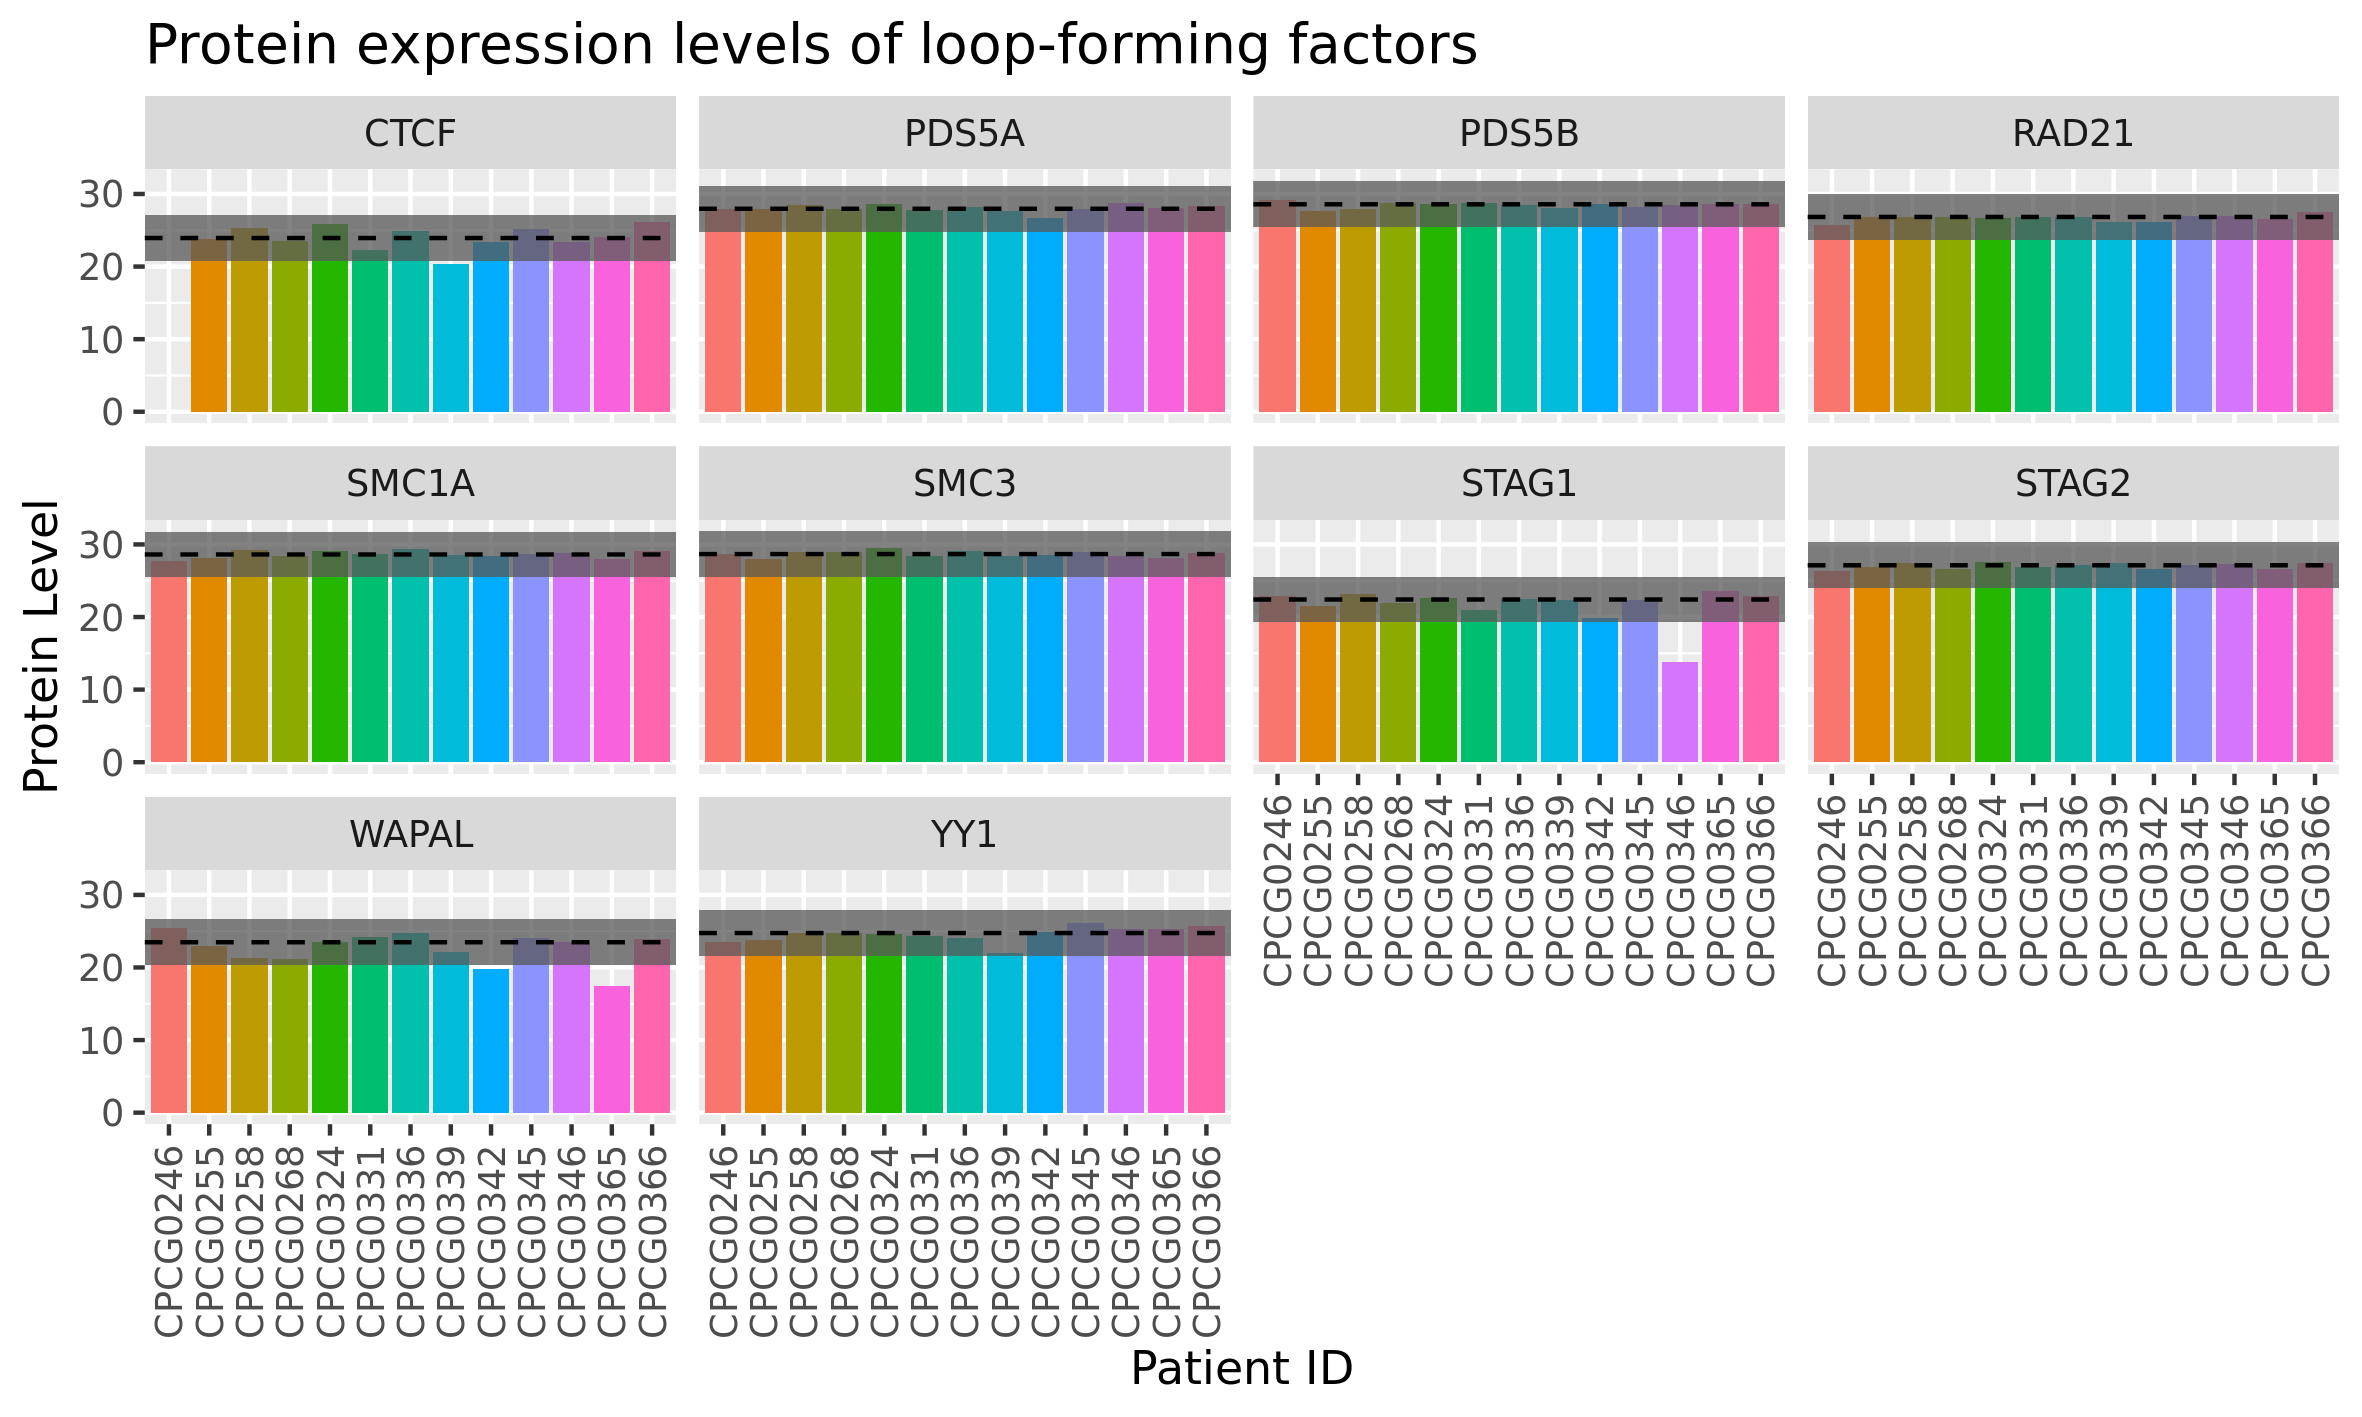
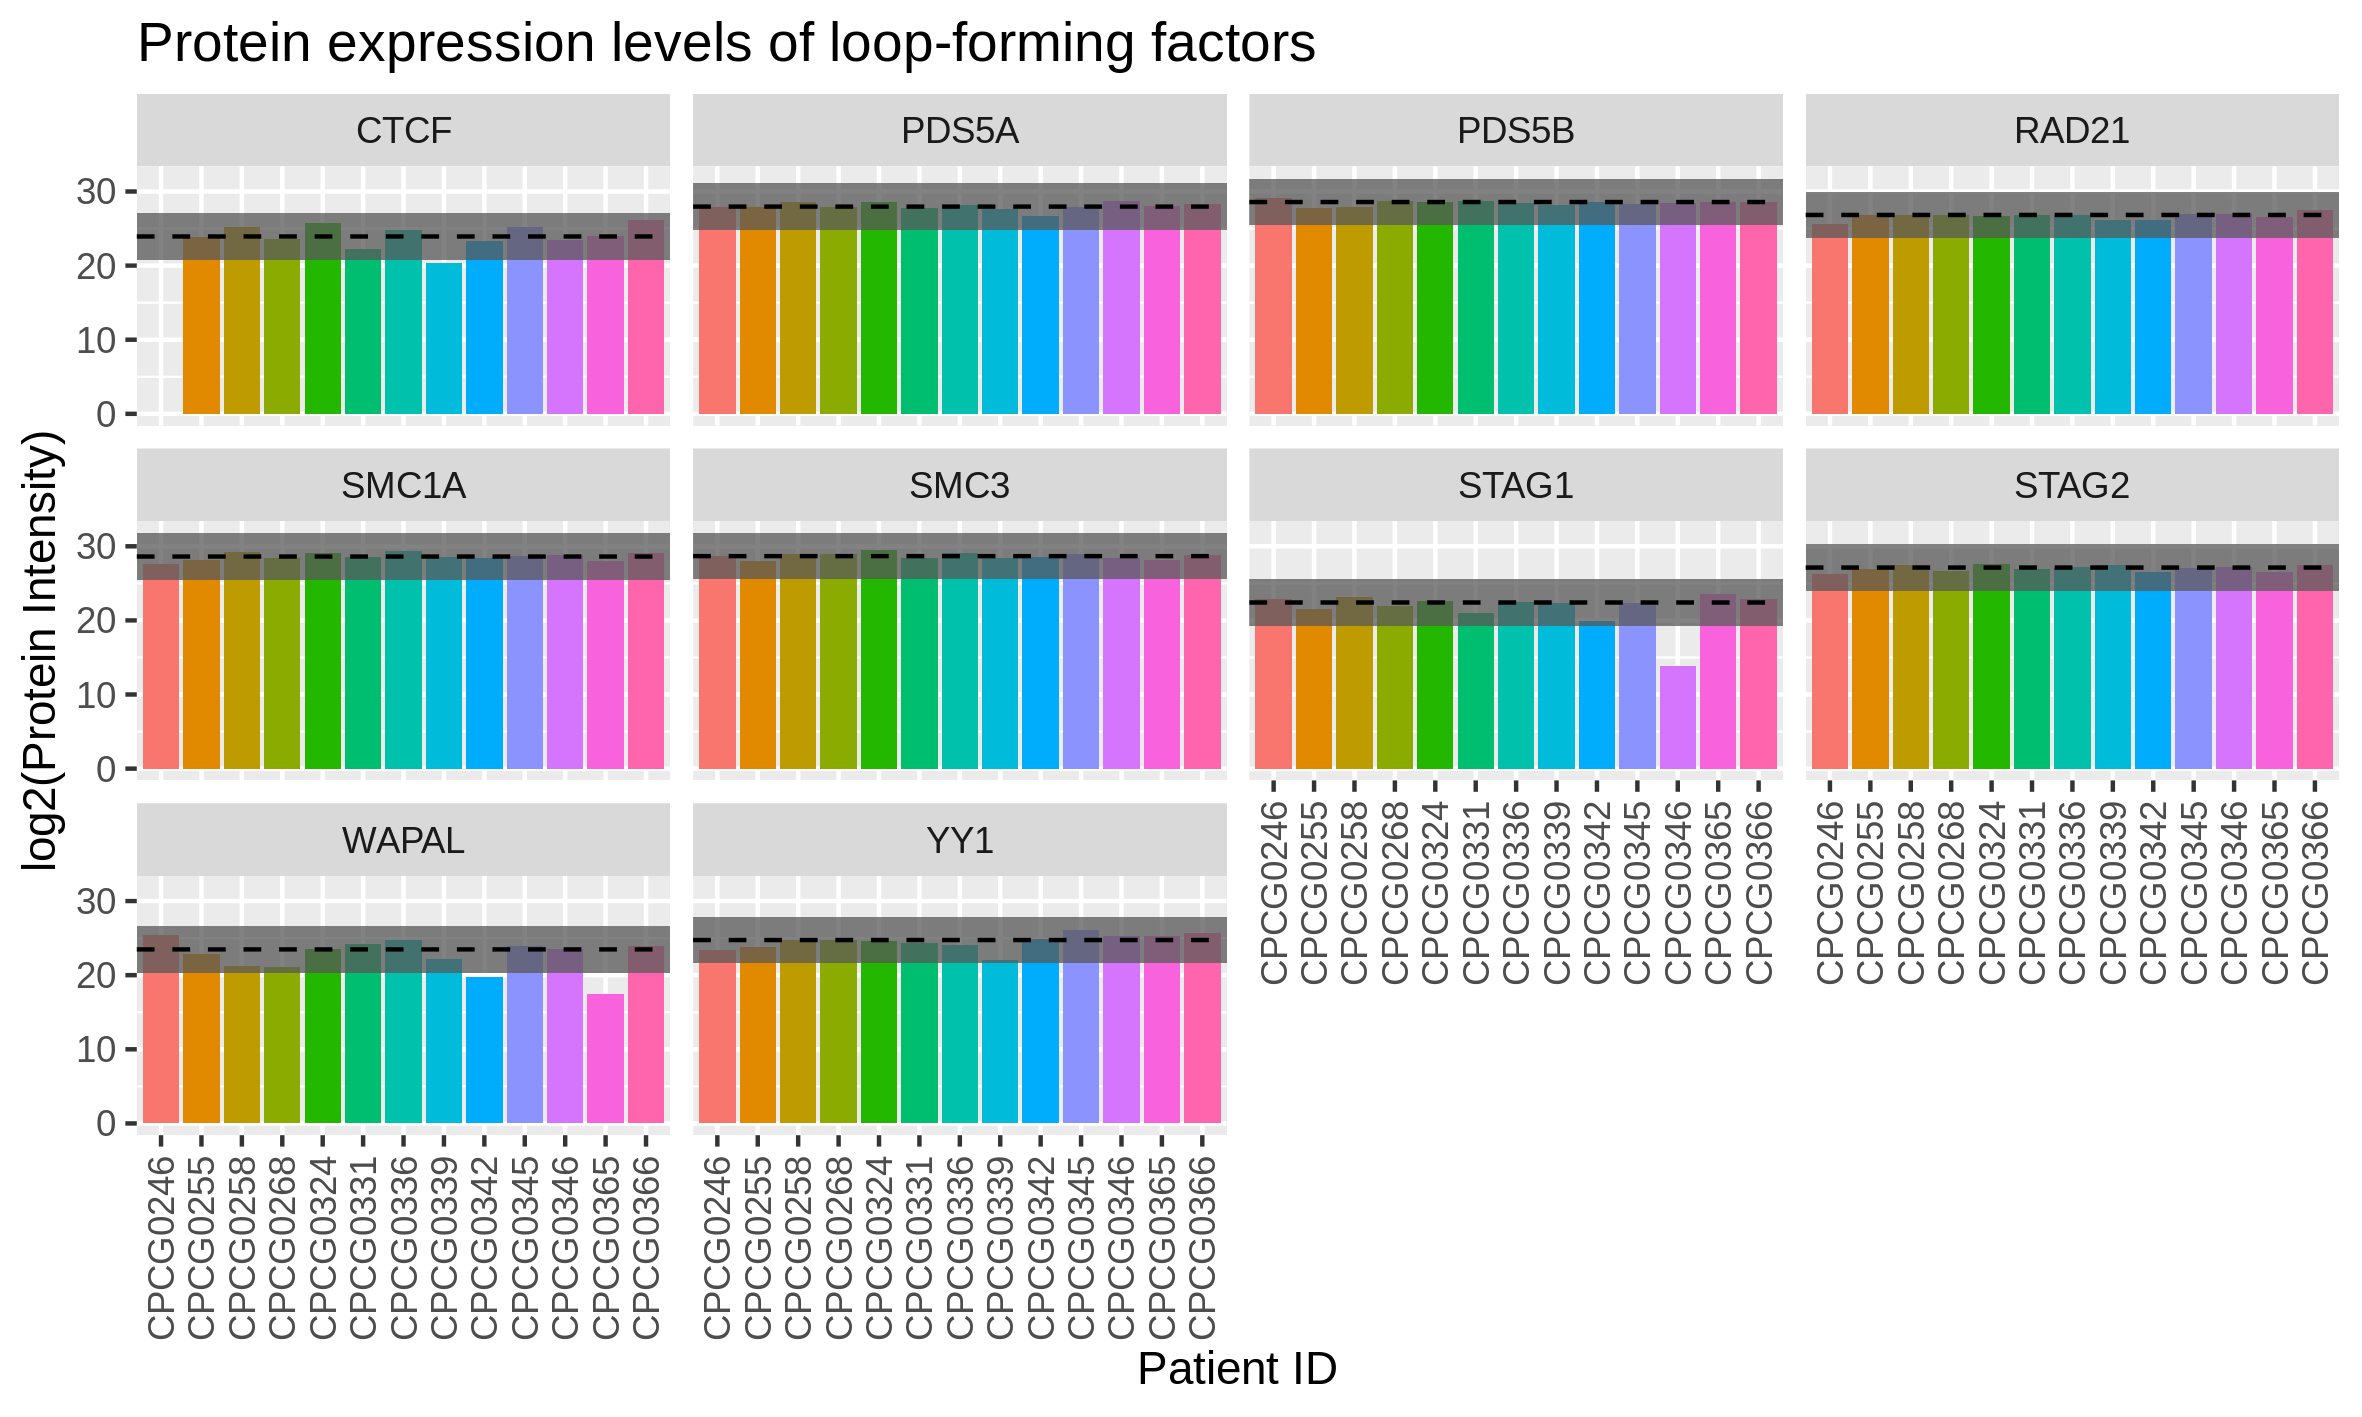
Updating README with notes from Dr. Kislinger, updating plot axis title

Changed region(s): [[0.0, 0.0, 0.989, 0.9936], [0.0309, 0.2795, 0.0618, 0.3105]]

diff --git a/Results/2019-05-03_cohesin-complex-protein-expression/README.md b/Results/2019-05-03_cohesin-complex-protein-expression/README.md
@@ -35,10 +35,22 @@ Black line is median expression for that protein, and the grey shaded region is 
 
 All samples lie within this shaded region except for:
 
-* CTCF in CPCG0246 (could not be measured, was `NA` in data)
+* CTCF in CPCG0246 (was `NA` in data)
 * CTCF in CPCG0339
 * STAG1 in CPCG0346
 * WAPAL in CPCG0342 and CPCG0365
+
+We discussed the topic of `NA`s with Dr. Kislinger:
+
+> NA means that no peptides were detected for this protein in a given samples. Basically a missing value and a caveat with current proteomics technologies.
+> This could mean that indeed that protein is not present or that it was missed by the MS.
+> This is more common for lower abundant proteins.
+> Basically we still have false negatives.
+
+It is unclear whether CTCF on CPC0246 is absent, or just wasn't detected.
+Moreover, it is unclear whether 5 proteins not present in the table (SMC1B, REC8, STAG3, CDC5A, and ZNF143) were absent in all samples or undetected (76 in the original study).
+
+If there are issues with these particular proteins, we'll address it in the future.
 
 ## Conclusions
 
